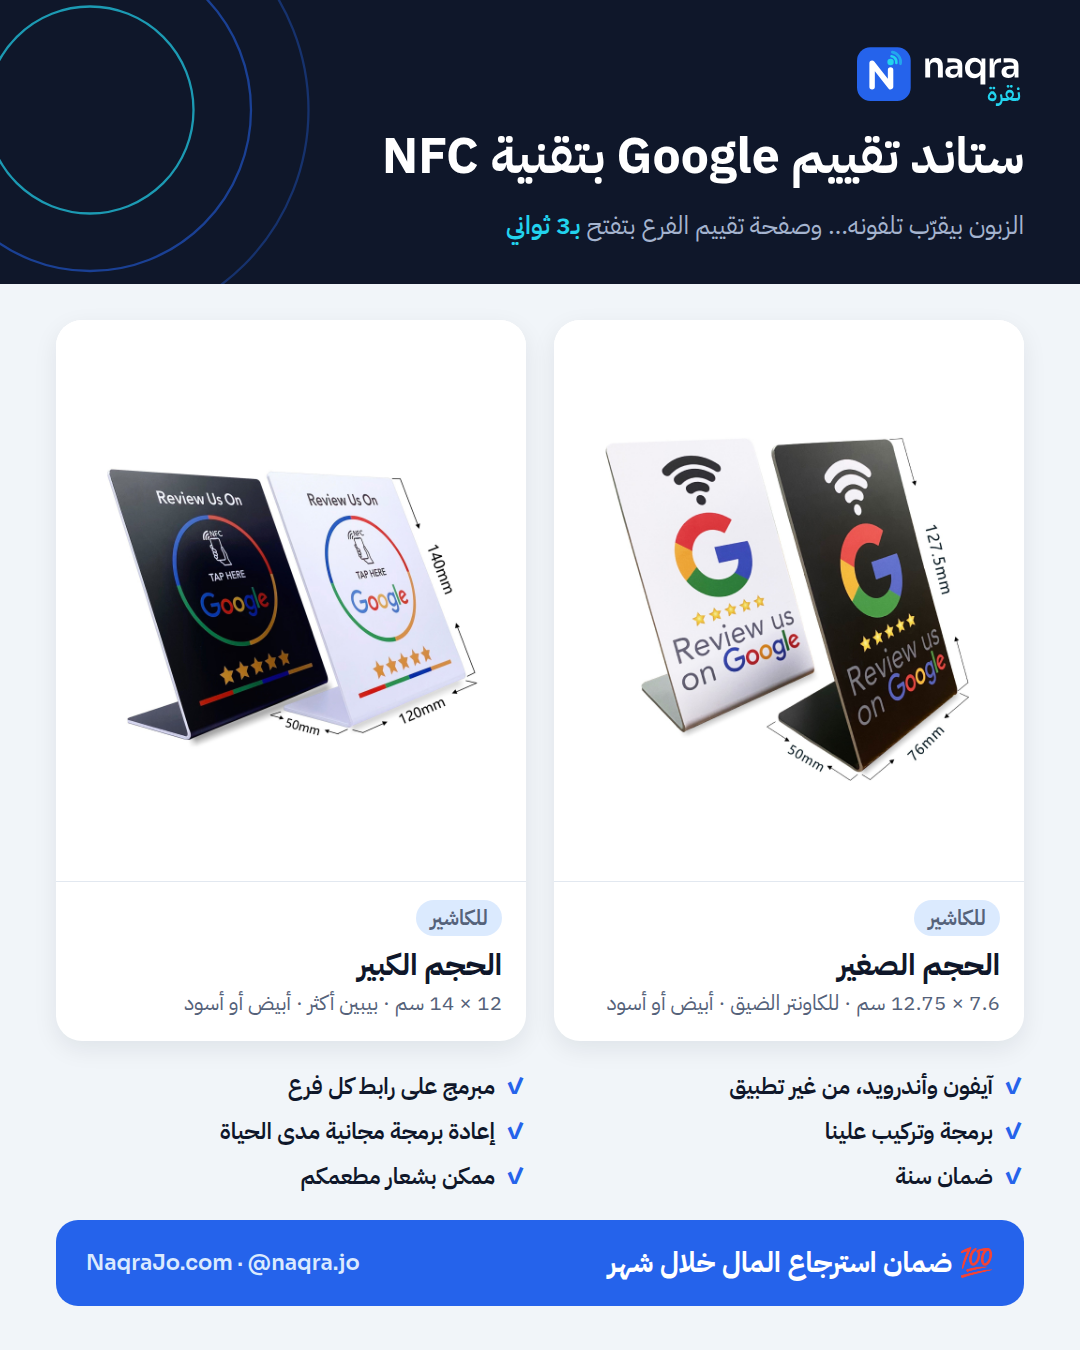
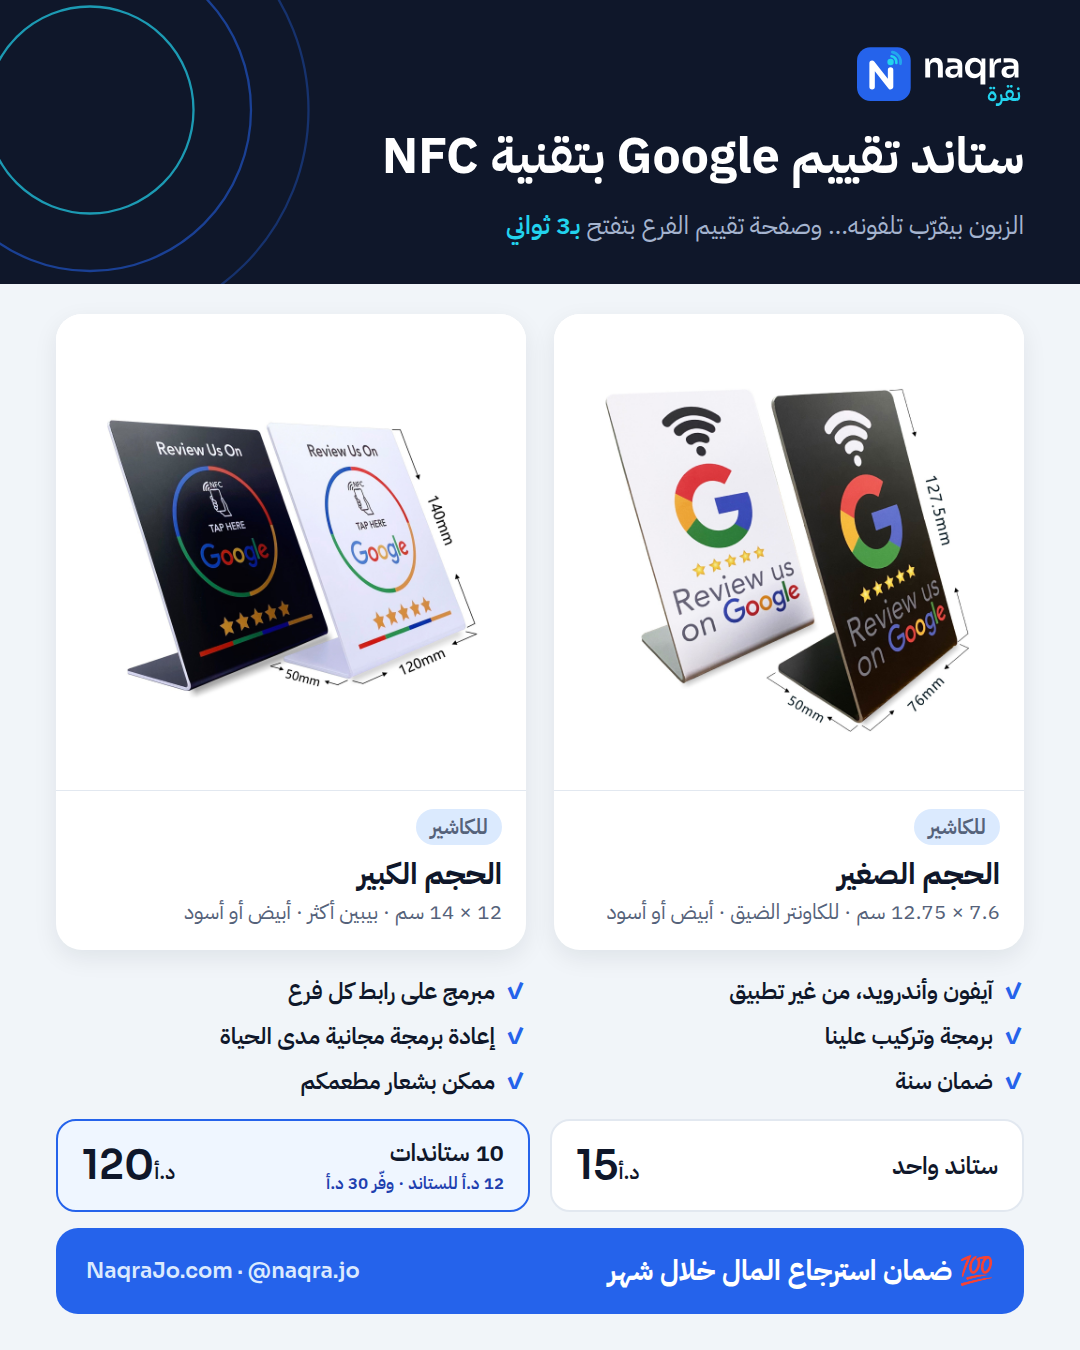
Add prices (15 JOD single, 120 JOD for 10) to offer image
Claude-Session: https://claude.ai/code/session_0135E9cuntaFdoLjNn9iFDNg

diff --git a/brand/source/offer.html b/brand/source/offer.html
@@ -11,7 +11,7 @@ header img.logo{height:62px;align-self:flex-start;position:relative}
 header h1{font-size:50px;font-weight:700;line-height:1.3;position:relative}
 header p{font-size:25px;color:#A5B4CF;position:relative}
 header p b{color:#22D3EE;font-weight:600}
-main{flex:1;display:grid;grid-template-columns:1fr 1fr;gap:28px;padding:36px 56px 20px}
+main{flex:1;display:grid;grid-template-columns:1fr 1fr;gap:28px;padding:30px 56px 16px}
 .card{background:#fff;border-radius:26px;overflow:hidden;display:flex;flex-direction:column;box-shadow:0 8px 24px rgba(15,23,42,.08)}
 .card .img{flex:1;display:grid;place-items:center;padding:10px;background:#fff}
 .card .img img{width:100%;height:100%;object-fit:contain}
@@ -21,9 +21,16 @@ main{flex:1;display:grid;grid-template-columns:1fr 1fr;gap:28px;padding:36px 56p
 .chip{display:inline-block;background:#DBEAFE;color:#1E40AF;font-size:18px;font-weight:600;border-radius:30px;padding:2px 14px;margin-bottom:6px}
 ul{list-style:none;padding:8px 56px 0;display:grid;grid-template-columns:1fr 1fr;gap:10px 28px;font-size:23px;font-weight:600}
 ul li:before{content:"✓";color:#2563EB;margin-left:10px;font-weight:700}
-footer{margin:26px 56px 44px;background:#2563EB;color:#fff;border-radius:22px;padding:22px 30px;display:flex;justify-content:space-between;align-items:center}
+footer{margin:16px 56px 36px;background:#2563EB;color:#fff;border-radius:22px;padding:22px 30px;display:flex;justify-content:space-between;align-items:center}
 footer b{font-size:28px;font-weight:700}
 footer span{font-family:Sora;font-size:21px;direction:ltr;color:#DBEAFE}
+.prices{margin:20px 56px 0;display:grid;grid-template-columns:1fr 1fr;gap:20px}
+.price{background:#fff;border:2px solid #E2E8F0;border-radius:20px;padding:14px 24px;display:flex;justify-content:space-between;align-items:center}
+.price.best{border-color:#2563EB;background:#EFF6FF}
+.price .q{font-size:24px;font-weight:600}
+.price .q small{display:block;font-size:17px;color:#1E40AF;font-weight:600}
+.price .v{font-family:Sora;font-size:40px;font-weight:600;direction:ltr}
+.price .v span{unicode-bidi:isolate;direction:rtl;display:inline-block;font-family:PlexAr;font-size:20px;font-weight:600;margin-right:6px}
 </style></head><body>
 <header>
  <svg class="rings" viewBox="0 0 200 200"><circle cx="100" cy="100" r="95" fill="none" stroke="#2563EB" stroke-width="1" opacity=".35"/><circle cx="100" cy="100" r="70" fill="none" stroke="#2563EB" stroke-width="1" opacity=".55"/><circle cx="100" cy="100" r="45" fill="none" stroke="#22D3EE" stroke-width="1" opacity=".7"/></svg>
@@ -43,5 +50,9 @@ footer span{font-family:Sora;font-size:21px;direction:ltr;color:#DBEAFE}
  <li>ضمان سنة</li>
  <li>ممكن بشعار مطعمكم</li>
 </ul>
+<div class="prices">
+ <div class="price"><div class="q">ستاند واحد</div><div class="v">15<span>د.أ</span></div></div>
+ <div class="price best"><div class="q">10 ستاندات<small>12 د.أ للستاند · وفّر 30 د.أ</small></div><div class="v">120<span>د.أ</span></div></div>
+</div>
 <footer><b>💯 ضمان استرجاع المال خلال شهر</b><span>NaqraJo.com · @naqra.jo</span></footer>
 </body></html>
